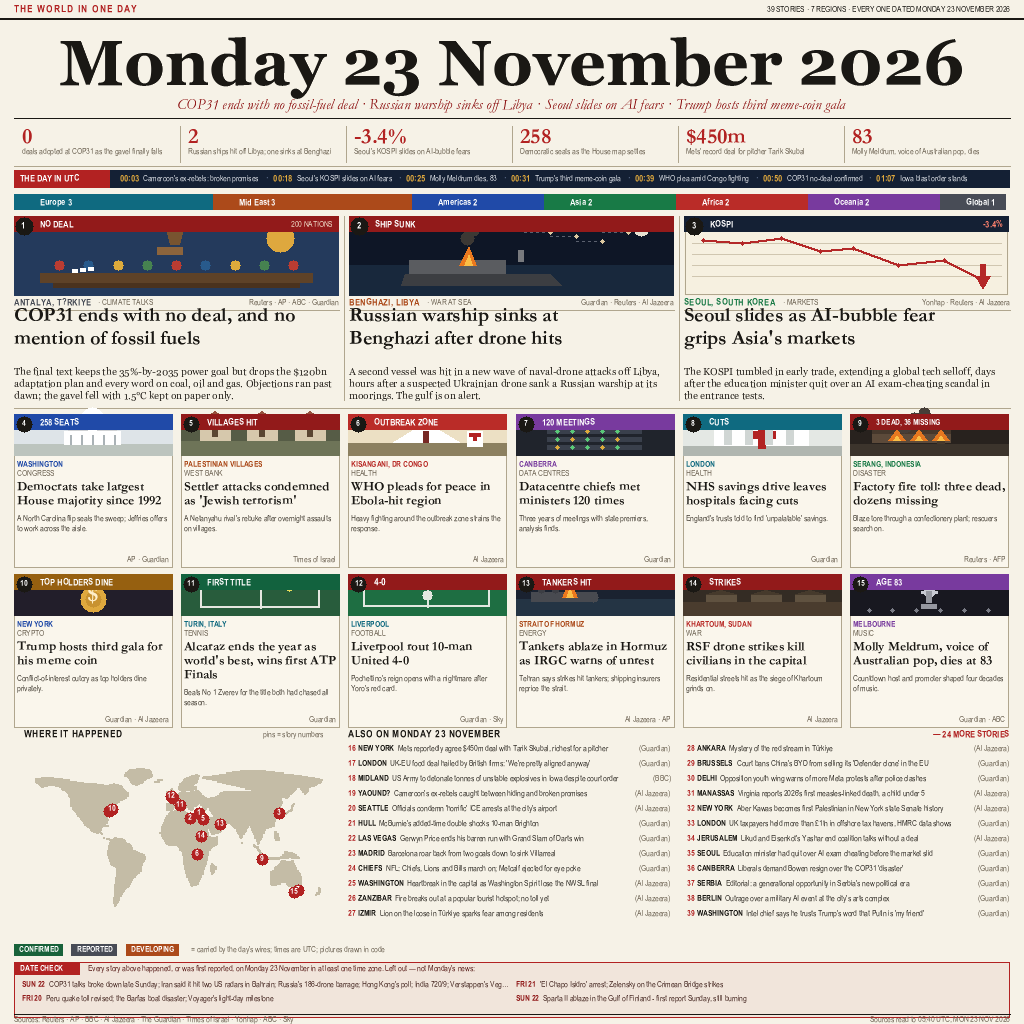
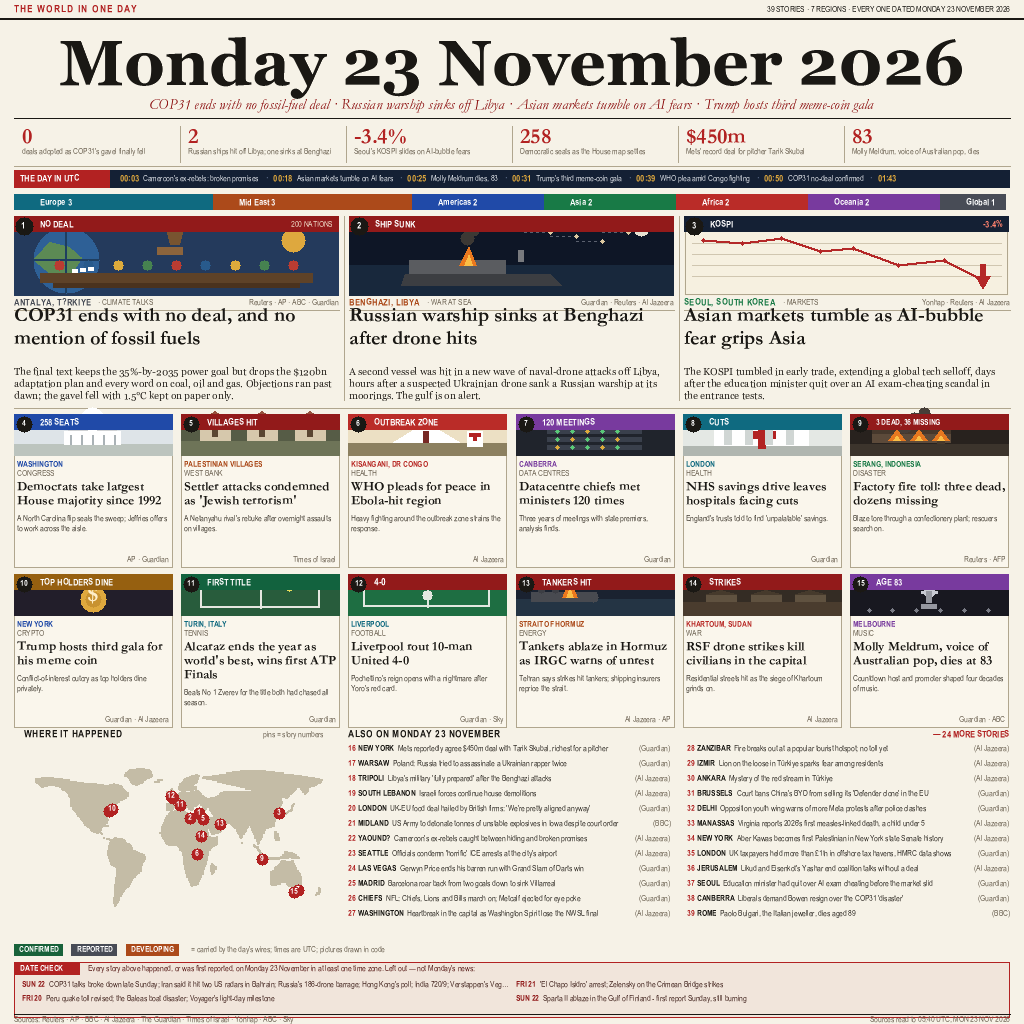
poster v1: 39 stories, 7 regions, drawn scenes, map, date check

diff --git a/main.py b/main.py
@@ -244,11 +244,11 @@ def wrap(text, key, size, width):
     return lines
 
 # ------------------------------------------------------------------ content
-DECK = ("COP31 ends with no fossil-fuel deal \u00b7 Russian warship sinks off Libya \u00b7 Seoul slides on AI fears "
+DECK = ("COP31 ends with no fossil-fuel deal \u00b7 Russian warship sinks off Libya \u00b7 Asian markets tumble on AI fears "
         "\u00b7 Trump hosts third meme-coin gala")
 
 STATS = [
-    ("0", "deals adopted at COP31 as the gavel finally falls"),
+    ("0", "deals adopted as COP31's gavel finally fell"),
     ("2", "Russian ships hit off Libya; one sinks at Benghazi"),
     ("-3.4%", "Seoul's KOSPI slides on AI-bubble fears"),
     ("258", "Democratic seats as the House map settles"),
@@ -258,12 +258,14 @@ STATS = [
 
 TIMELINE = [
     ("00:03", "Cameroon's ex-rebels: broken promises"),
-    ("00:18", "Seoul's KOSPI slides on AI fears"),
+    ("00:18", "Asian markets tumble on AI fears"),
     ("00:25", "Molly Meldrum dies, 83"),
     ("00:31", "Trump's third meme-coin gala"),
     ("00:39", "WHO plea amid Congo fighting"),
     ("00:50", "COP31 no-deal confirmed"),
-    ("01:07", "Iowa blast order stands"),
+    ("01:43", "House demolitions in south Lebanon"),
+    ("01:51", "Libya's military 'fully prepared'"),
+    ("01:53", "Poland: Russian assassin plot revealed"),
 ]
 
 HEROES = [
@@ -282,7 +284,7 @@ HEROES = [
          src="Guardian \u00b7 Reuters \u00b7 Al Jazeera", scene="ship"),
     dict(n=3, region="ASIA", topic="MARKETS", place="SEOUL, SOUTH KOREA",
          tag="KOSPI -3.4%",
-         head="Seoul slides as AI-bubble fear grips Asia's markets",
+         head="Asian markets tumble as AI-bubble fear grips Asia",
          body=("The KOSPI tumbled in early trade, extending a global tech selloff, days after the education "
                "minister quit over an AI exam-cheating scandal in the entrance tests."),
          src="Yonhap \u00b7 Reuters \u00b7 Al Jazeera", scene="chart"),
@@ -329,35 +331,35 @@ CARDS = [
 
 BRIEFS = [
     ("NEW YORK", "AMERICAS", "Mets reportedly agree $450m deal with Tarik Skubal, richest for a pitcher", "Guardian"),
+    ("WARSAW", "EUROPE", "Poland: Russia tried to assassinate a Ukrainian rapper twice", "Guardian"),
+    ("TRIPOLI", "AFRICA", "Libya's military 'fully prepared' after the Benghazi attacks", "Al Jazeera"),
+    ("SOUTH LEBANON", "MIDEAST", "Israeli forces continue house demolitions", "Al Jazeera"),
     ("LONDON", "EUROPE", "UK-EU food deal hailed by British firms: 'We're pretty aligned anyway'", "Guardian"),
     ("MIDLAND", "AMERICAS", "US Army to detonate tonnes of unstable explosives in Iowa despite court order", "BBC"),
-    ("YAOUND\u00c9", "AFRICA", "Cameroon's ex-rebels caught between hiding and broken promises", "Al Jazeera"),
+    ("YAOUNDÉ", "AFRICA", "Cameroon's ex-rebels caught between hiding and broken promises", "Al Jazeera"),
     ("SEATTLE", "AMERICAS", "Officials condemn 'horrific' ICE arrests at the city's airport", "Al Jazeera"),
-    ("HULL", "EUROPE", "McBurnie's added-time double shocks 10-man Brighton", "Guardian"),
     ("LAS VEGAS", "AMERICAS", "Gerwyn Price ends his barren run with Grand Slam of Darts win", "Guardian"),
     ("MADRID", "EUROPE", "Barcelona roar back from two goals down to sink Villarreal", "Guardian"),
     ("CHIEFS", "AMERICAS", "NFL: Chiefs, Lions and Bills march on; Metcalf ejected for eye poke", "Guardian"),
     ("WASHINGTON", "AMERICAS", "Heartbreak in the capital as Washington Spirit lose the NWSL final", "Al Jazeera"),
     ("ZANZIBAR", "AFRICA", "Fire breaks out at a popular tourist hotspot; no toll yet", "Al Jazeera"),
-    ("IZMIR", "EUROPE", "Lion on the loose in T\u00fcrkiye sparks fear among residents", "Al Jazeera"),
-    ("ANKARA", "EUROPE", "Mystery of the red stream in T\u00fcrkiye", "Al Jazeera"),
+    ("IZMIR", "EUROPE", "Lion on the loose in Türkiye sparks fear among residents", "Al Jazeera"),
+    ("ANKARA", "EUROPE", "Mystery of the red stream in Türkiye", "Al Jazeera"),
     ("BRUSSELS", "EUROPE", "Court bans China's BYD from selling its 'Defender clone' in the EU", "Guardian"),
     ("DELHI", "ASIA", "Opposition youth wing warns of more Meta protests after police clashes", "Guardian"),
     ("MANASSAS", "AMERICAS", "Virginia reports 2026's first measles-linked death, a child under 5", "Al Jazeera"),
     ("NEW YORK", "AMERICAS", "Aber Kawas becomes first Palestinian in New York state Senate history", "Al Jazeera"),
-    ("LONDON", "EUROPE", "UK taxpayers held more than \u00a31tn in offshore tax havens, HMRC data shows", "Guardian"),
+    ("LONDON", "EUROPE", "UK taxpayers held more than £1tn in offshore tax havens, HMRC data shows", "Guardian"),
     ("JERUSALEM", "MIDEAST", "Likud and Eisenkot's Yashar end coalition talks without a deal", "Al Jazeera"),
     ("SEOUL", "ASIA", "Education minister had quit over AI exam cheating before the market slid", "Guardian"),
     ("CANBERRA", "OCEANIA", "Liberals demand Bowen resign over the COP31 'disaster'", "Guardian"),
-    ("SERBIA", "EUROPE", "Editorial: a generational opportunity in Serbia's new political era", "Guardian"),
-    ("BERLIN", "EUROPE", "Outrage over a military AI event at the city's arts complex", "Guardian"),
-    ("WASHINGTON", "AMERICAS", "Intel chief says he trusts Trump's word that Putin is 'my friend'", "Guardian"),
+    ("ROME", "EUROPE", "Paolo Bulgari, the Italian jeweller, dies aged 89", "BBC"),
 ]
 
 DATECHECK = [
     ("SUN 22", "COP31 talks broke down late Sunday; Iran said it hit two US radars in Bahrain; Russia's 186-drone barrage; Hong Kong's poll; India 720/9; Verstappen's Vegas win"),
     ("FRI 21", "'El Chapo Isidro' arrest; Zelensky on the Crimean Bridge strikes"),
-    ("FRI 20", "Peru quake toll revised; the Barfas boat disaster; Voyager's light-day milestone"),
+    ("FRI 20", "Peru quake toll revised; the Baleas boat disaster; Voyager's light-day milestone"),
     ("SUN 22", "Sparta II ablaze in the Gulf of Finland - first report Sunday, still burning"),
 ]
 
@@ -376,7 +378,14 @@ PRESS = "05:40 UTC, MON 23 NOV 2026"
 def scene_cop31(x, y, w, h):
     fill_rect(x, y, w, h, SKY)
     # sun
-    fill_circle(x + int(w * 0.82), y + int(h * 0.28), 14, GOLD)
+    fill_circle(x + int(w * 0.86), y + int(h * 0.30), 12, GOLD)
+    # globe
+    gx, gy, gr = x + int(w * 0.16), y + int(h * 0.55), int(h * 0.42)
+    fill_circle(gx, gy, gr, (46, 96, 150))
+    fill_poly([(gx - gr, gy), (gx - gr * 0.5, gy - gr * 0.55), (gx + gr * 0.1, gy - gr * 0.4),
+               (gx + gr * 0.5, gy - gr * 0.05), (gx + gr * 0.2, gy + gr * 0.4), (gx - gr * 0.4, gy + gr * 0.5)], GRASS)
+    fill_rect(gx - gr, gy - 1, 2 * gr, 2, (30, 62, 96))
+    fill_rect(gx - 1, gy - gr, 2, 2 * gr, (30, 62, 96))
     # table
     ty = y + int(h * 0.72)
     fill_rect(x + int(w * 0.08), ty, int(w * 0.84), 10, (94, 66, 40))
@@ -693,7 +702,7 @@ def heroes(y):
         hline(int(x), int(x + cw), ly + 4, RULE2, 1)
         # headline
         hy = ly + 16
-        hls = wrap(st["head"], "gsb", 21, cw - 2)[:2]
+        hls = wrap(st["head"], "gsb", 20, cw - 2)[:2]
         for j, ln in enumerate(hls):
             draw_text(buf, int(x), hy + j * 23, ln, "gsb", 20, INK)
         # body
